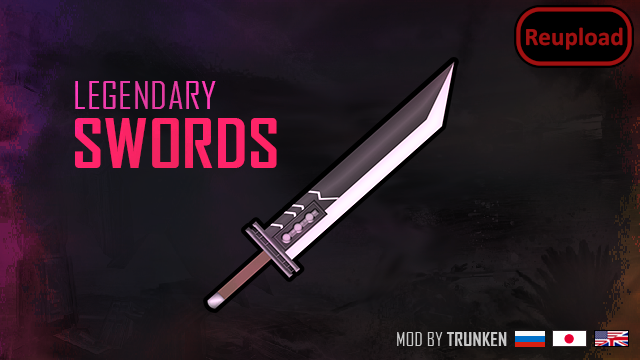
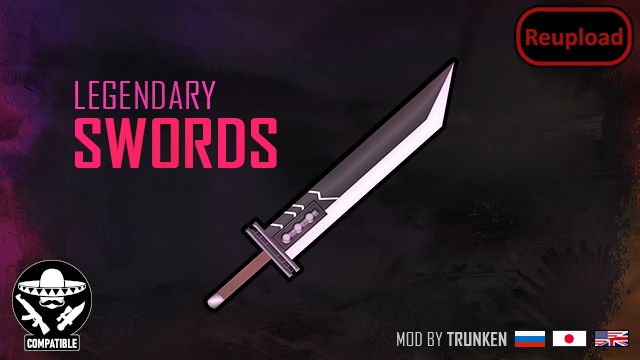
CE-patch is now included in the main CE-mod instead

Changed region(s): [[0.0, 0.7028, 0.1562, 0.9778]]

diff --git a/README.md b/README.md
@@ -1,23 +1,14 @@
 # Swords
 
-![Image](https://i.imgur.com/WAEzk68.png)
+![Image](https://i.imgur.com/buuPQel.png)
 
 Update of Trunkens mod
 https://steamcommunity.com/sharedfiles/filedetails/?id=1845180112
 
-![Image](https://i.imgur.com/7Gzt3Rg.png)
+![Image](https://i.imgur.com/pufA0kM.png)
 
-
-[table]
-	[tr]
-		[td]https://invite.gg/Mlie]![Image](https://i.imgur.com/zdzzBrc.png)
-[/td]
-		[td]https://github.com/emipa606/Swords]![Image](https://i.imgur.com/kTkpTOE.png)
-[/td]
-	[/tr]
-[/table]
 	
-![Image](https://i.imgur.com/NOW7jU1.png)
+![Image](https://i.imgur.com/Z4GOv8H.png)
 
 
 **Version 1.0:** Release.
@@ -101,7 +92,7 @@ https://steamcommunity.com/sharedfiles/filedetails/?id=1880253632]![Image](https
 Join us on Discord: https://discord.gg/sT4zdXt
 
 
-![Image](https://i.imgur.com/Rs6T6cr.png)
+![Image](https://i.imgur.com/PwoNOj4.png)
 
 
 
@@ -111,7 +102,6 @@ Join us on Discord: https://discord.gg/sT4zdXt
 -  For best support, please use the Discord-channel for error-reporting.
 -  Do not report errors by making a discussion-thread, I get no notification of that.
 -  If you have the solution for a problem, please post it to the GitHub repository.
-
 
 
 
